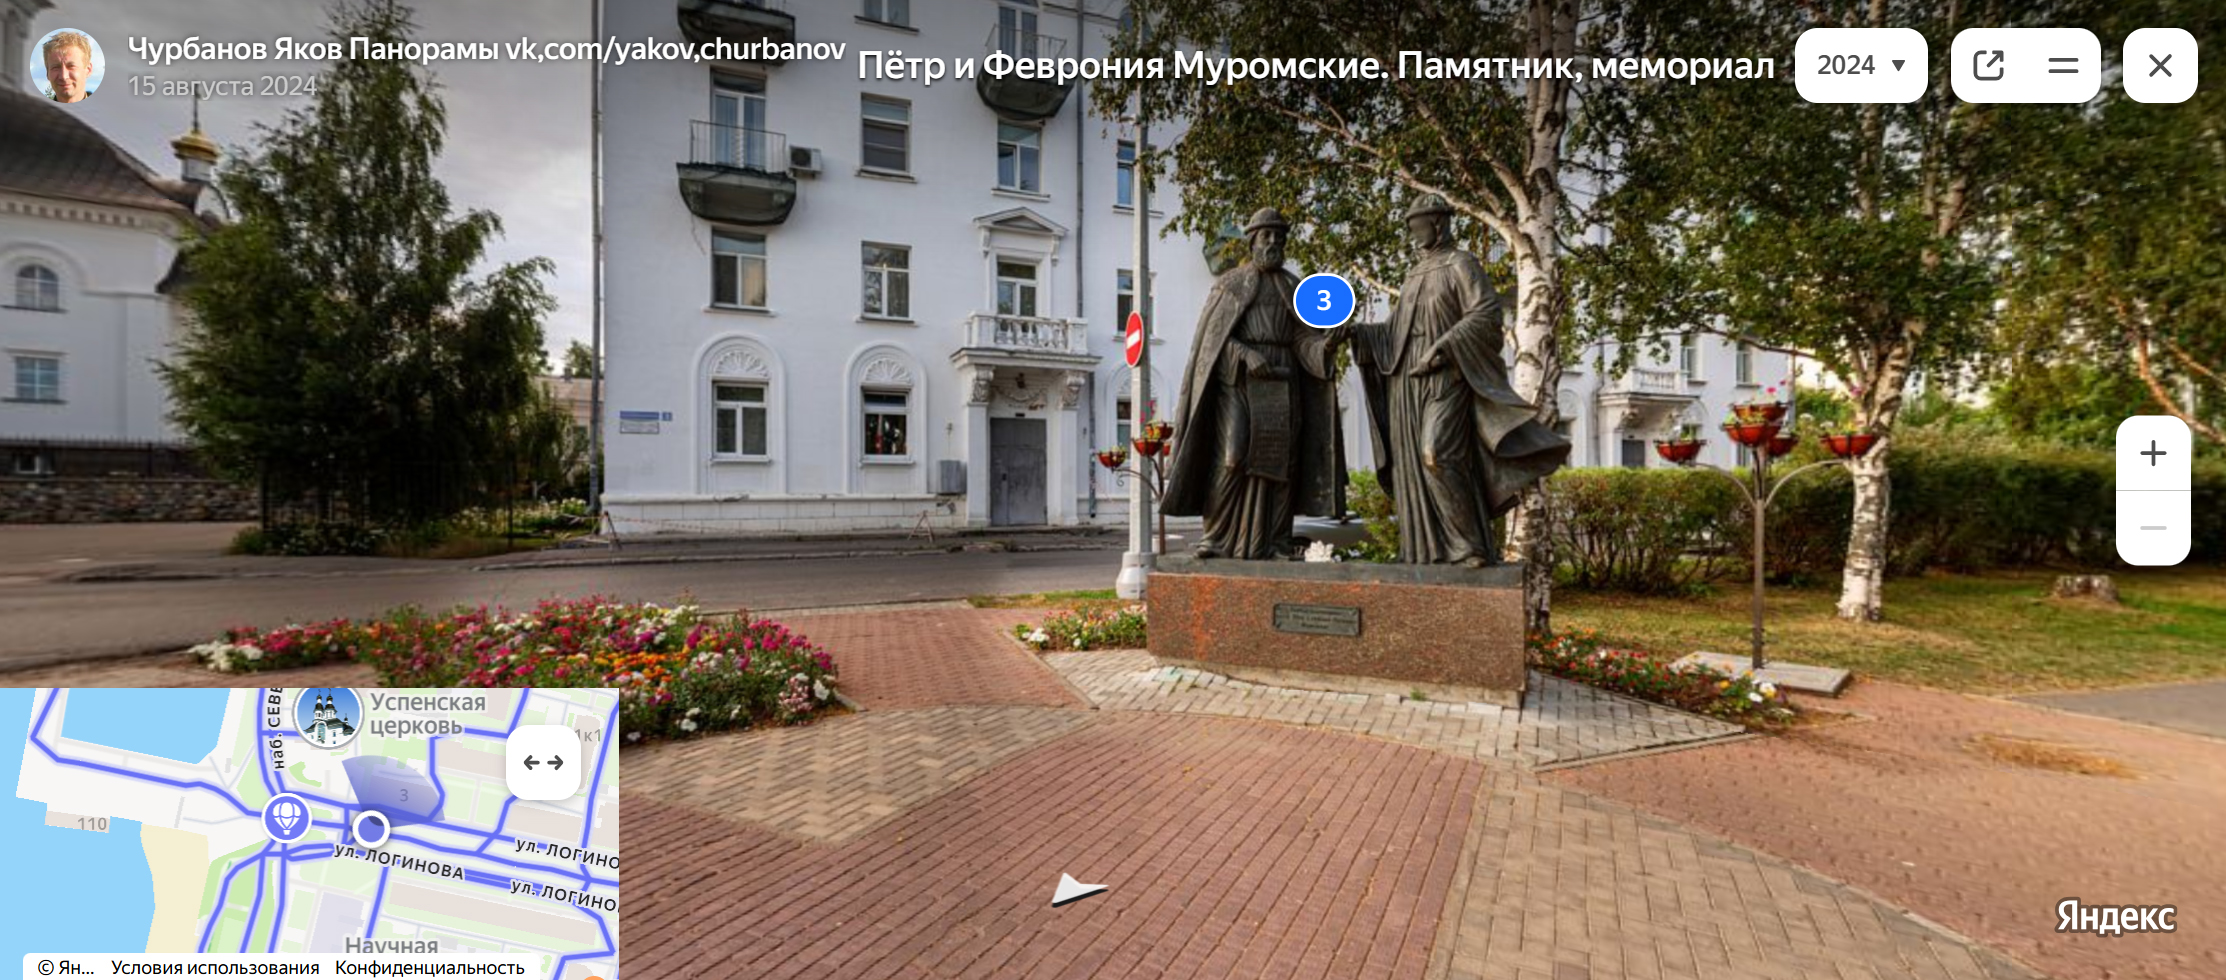
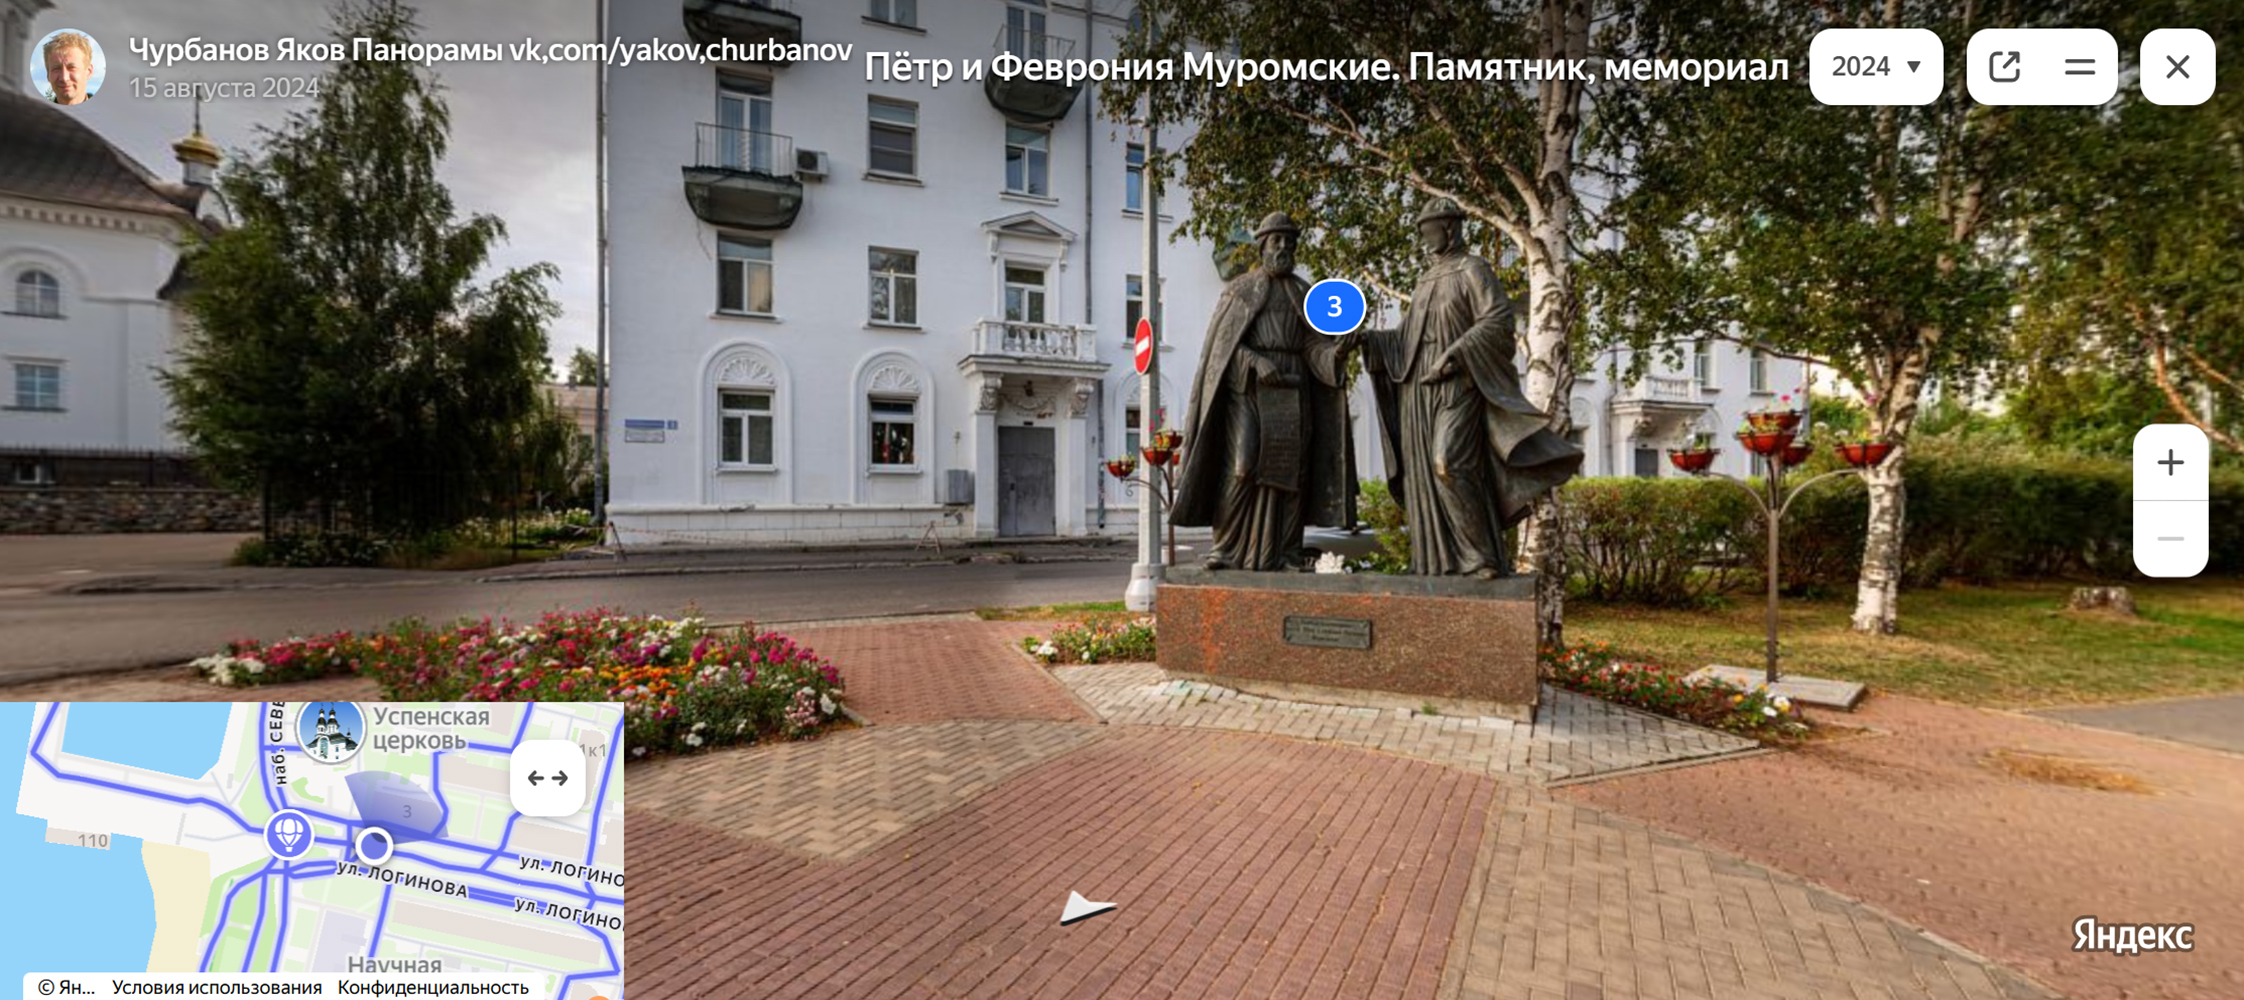
петр акватория

diff --git a/47613-1.html b/47613-1.html
@@ -1,0 +1,325 @@
+
+<html xmlns="http://www.w3.org/1999/xhtml"  lang="ru">
+<head>
+ 
+ 
+<meta charset="UTF-8">     
+<meta name="viewport" content="width=device-width, initial-scale=1, maximum-scale=1" >
+<meta name="keywords" content="виртуальное путешествие, виртуальный тур, архангельск,вокруг марш, архангельская, область, панорама, фото, 360 панорамы,3d-панорама, сферические панорама,  заказать, пейзажный, интерьерный, музейный, фотограф, Чурбанов Яков"> 
+<meta property="og:locale" content="ru_RU" >
+<meta property="og:site_name" content="Сайт Якова Чурбанова «В Архангельск(уЮ) вокруг марш!». Виртуальное путешествие в Архангельск и Архангельскую область. Панорамы Памятников, Музеев, Событий и просто Красивых мест" >
+<meta property="og:type" content="site" >
+
+
+<meta property="og:url" content="https://yakov72.github.io/pano" >
+<meta property="og:image" content="https://yakov72.github.io/47613-1.jpg" >
+<!-- 	 	/*<meta property="og:image:width" content="512" >
+		<meta property="og:image:height" content="512" />*/ -->
+<meta property="og:image:type" content = "image/jpg" >
+<!-- 		<meta property = "og:video" content = "https://www.mywebsite.com/video.avi" >-->
+<meta property="og:title"       content="+360° Панорама. 2015-09-16 Музей-макет «Петровская Акватория» - исторический макет Петербурга 18 века">
+<meta property="og:description" content="+360° Панорама. 2015-09-16 Музей-макет «Петровская Акватория» - исторический макет Петербурга 18 века">
+
+<!--     место для CSS -->
+
+<link rel="stylesheet" type="text/css" href="./css/mypano.css" >
+<link rel="stylesheet" type="text/css" href="./css/my_rukopis_font.css" >
+<link rel="icon"  href="./favicon.png" >
+<!-- <title>Панорамы Якова Чурбанова. Виртуальное путешествие в Архангельск и Архангельскую область. «В Архангельск(уЮ) вокруг марш!». </title>-->
+<title>Панорамы Якова Чурбанова. Виртуальное путешествие в Архангельск и Архангельскую область. «В Архангельск(уЮ) вокруг марш!». </title>
+    <style>
+        html, body {
+            height: 100%;
+            min-height: 100%;
+            margin: 0;
+            padding: 0;
+            font-family: verdana, arial, sans-serif;
+            font-size: 12px;
+            color: #333;
+              overflow: hidden;
+        }
+        a {
+            color: #1e5da0;
+        }
+        a:hover {
+            color: #00366d;
+        }
+        </style>
+        
+       
+
+ 
+  <script type="text/javascript">         
+ document.addEventListener("DOMContentLoaded", (event) => {
+//"DOM fully loaded and parsed");
+let params = new URLSearchParams(document.location.search);
+let value = params.get('key'); // 'key' – это имя целевого параметра
+if (value !== null){    
+ document.getElementById("pano1_templ").src = value;}
+ //"https://1panorama.ru/world/russia-1/arxangelskaya-oblast-173/arxangelsk-646/arxangelsk-severnyj-morskoj-muzej-paratov-panorama20192";
+else {
+    value="https://1panorama.ru/world/russia-1/leningradskaya-oblast-95/sankt-peterburg-2500/2015-09-16-muzej-maket-petrovskaya-akvatoriya-istoricheskij-maket-peterburga-18-veka-panorama47613";
+	
+ document.getElementById("pano1_templ").src = value;} 
+});
+ </script>
+
+
+</head>
+
+<body>
+
+<!-- <div style="position: absolute; left: 0px; top: 0px; width: 100%; height: 100%; opacity: 0.5;
+     overflow: hidden; user-select: none; transform-style: preserve-3d;z-index: 3017; color : green;">
+    -->
+    
+    
+<canvas style=" 
+  background: linear-gradient(to bottom, #ffffff, #ADD8E6);
+   position: fixed; top: 0px; left: 0px; background-color: #edf3ff; 
+   z-index: 2201;   "  id="tutorial1" width="1920" height="60"    
+   title="Кликните по ссылке, вернуться в начало главной страницы  виртуального тура 
+Подробнее вы можете почитать на сайте в разделе `ПОМОЩЬ!!!!!!!!!!!` "  >
+</canvas>
+<canvas style=" 
+  background: linear-gradient(to bottom, #FFFFFF, #ADD8E6);
+   position: fixed; top: 0px; left: 1921px; background-color: #edf3ff;  
+   z-index: 2201;"  id="tutorial2" width="1920" height="60" 
+   title="Кликните по ссылке, вернуться в начало главной страницы  виртуального тура 
+Подробнее вы можете почитать на сайте в разделе `ПОМОЩЬ!!!!!!!!!!!` "  >
+</canvas>
+
+  
+ <pre style=" 
+      font-size: 105%; 
+      font-weight: bold;  
+      line-height: 22px; 
+      color : red;
+      text-align: right;
+     
+      z-index: 2276;
+      opacity: 0.9;
+   border-bottom-color: rgb(255, 255, 255);
+   border-bottom-left-radius: 10px;
+   border-bottom-right-radius: 0px;
+   border-bottom-style: solid;
+   border-bottom-width: 3px;
+       border-bottom-left-radius: 50px;
+   position: fixed; top: 2px; right : 2px; 
+   background-color: #f4f4f4; ">&nbsp;&nbsp;&nbsp;&nbsp;&nbsp;&nbsp;&nbsp;&nbsp;&nbsp;<a href="index.html#yandexmap2">Спутник</a><a href="index.html#yandexmap1">Схема</a></pre> 
+       <!---- &nbsp;Яндекс-Карты&nbsp;<a href="#yandexmap2">Спутник</a>,<a href="#yandexmap1">Схема</a></pre> --->
+   
+  <span  style="   position: fixed; 
+         top: 7px; 
+         right : 130px;   
+         
+         z-index: 2277; 
+      font-size: 105%; 
+      font-weight: bold;  
+      font-size: 10px;
+      line-height: 12px; 
+     font-style: normal;
+      color : red;"         title="Яндекс<br>Карты
+ПЯндекс<br>КартытуреПом ощь,о Яндекс<br>КартыщьЯндекс<br>Яндекс<br>Картыр еПом ощь,о туре">
+      Яндекс<br>Карты</span>
+ 
+
+<form id="head_search" 
+style="position: fixed;
+    top: 7px;    left: 4px;
+    height: 19px;
+    vertical-align: middle;
+    z-index: 3001;      
+    border: 2px;  
+    border-color: #00366d;
+    background-color: #44f4f4; 
+         border-color: rgb(64, 64, 64);
+             margin-bottom: 0px;"
+
+    action="https://1panorama.ru/search/index"
+    
+        title="Введите название места или достопримечательности , что бы найти панораму"
+    >
+<input 
+style="
+width: 155px;
+height: 19px;
+border: 1px ;    
+margin: 0px 0 0 0;"
+type="search" placeholder="Поиск,напр. КОРЕЛЫ" name="q" value="">
+    <input type="submit" value="">
+</form>
+  
+<a style="position: fixed;
+    top:7px;    
+    left: 172px;
+   opacity: 0.9;
+   z-index: 2277; 
+       scale: 90% 90%;  "
+    href="index.html#instr" 
+    target="_blank"
+    title="
+Помощь.Про тур. Про автора.   "
+    >О туре</a>
+ 
+ 
+ <img src="info-q.png"   alt="карта" 
+    style=" 
+    width: 23px;
+    height: 20px;
+    position: fixed;
+ 
+    padding-top: 2px;
+    /* margin-left: -20px; */
+    border: none;
+    top:2px;    
+    left: 232px;
+       opacity: 1.0;
+       background-color: #cccccc; 
+         border-radius: 4px;
+   z-index: 2276; "
+    >
+   
+ 
+ 
+ <a style="position: fixed;
+    top:30px;    
+    left: -15px;
+   opacity: 0.9;
+   z-index: 2277; 
+       scale: 90% 90%;  "
+    href="index.html" 
+    target="_blank"
+    title="
+«В Архангельск(уЮ) вокруг марш!». Панорамы Якова Чурбанова. Виртуальное путешествие в Архангельск и Архангельскую область."
+
+    > 360° панорамы на туристической карте Архангельска и области.
+ </a>
+  
+ 
+<!------     visibility: hidden;
+      top:70px;    
+    left: 100px;
+            width: 500px;
+height: auto; --->
+ <img src="gotoarh.jpg"   alt="карта"  align="middle" id="gotoarh"
+ onmouseout="this.style.visibility='hidden'";
+      style="position: fixed; 
+      top:70px;    
+      left: 100px;
+      visibility: hidden;
+      display: block;
+      margin-left: auto;
+    margin-right: auto;
+    width: 50%;
+      margin: 4px; z-index: 2286;
+      
+      
+      overflow: visible; 
+      
+      "
+      title="&nbsp;&nbsp;&nbsp;Перейти на Официальный туристический сайт Администрации г. Архангельска  
+    ->  Сайт www.gotoarkhangelsk.ru 
+    Администрация ГО «Город Архангельск» © 2025. Р.Ф.,Архангельская обл., г. Архангельск.
+    ->  Сайт www.arhcity.ru - Официальный информационный интернет-портал г. Архангельска">
+     
+ <img src="gotoarh-dost.jpg"   alt="карта"  align="middle" id="gotoarh_dost"
+ onmouseout="this.style.visibility='hidden'";
+ 
+      style="position: fixed; 
+      top:70px;    
+      left: 100px;
+      visibility: hidden;
+      display: block;
+      margin-left: auto;
+    margin-right: auto;
+    width: 50%;
+      margin: 4px; z-index: 2286;
+      
+      overflow: visible; 
+      
+      
+      "
+      title="&nbsp;&nbsp;&nbsp;Перейти на Официальный туристический сайт Администрации г. Архангельска  
+    ->  Сайт www.gotoarkhangelsk.ru 
+    Администрация ГО «Город Архангельск» © 2025. Р.Ф.,Архангельская обл., г. Архангельск.
+    ->  Сайт www.arhcity.ru - Официальный информационный интернет-портал г. Архангельска">
+ 
+ <!-------           ======================   --->
+ <div>
+<iframe id="pano1_templ" width="100%" allow="fullscreen"  height="100%" 
+   style="position: fixed; top: 0px; left: 0px;  z-index: 2000; 
+    border-left-width: 0px;
+    border-top-width: 0px;
+    border-right-width: 0px;
+    bottom: 0px;
+    border-bottom-width: 0px;"
+  src=null    title="текст444" alt="текст444"  >
+</iframe>	
+ <a id="Main1pano"  target="_blank" 
+     title="&nbsp;&nbsp;&nbsp;Перейти на  сайт проекта !1panorama" 
+	 	 onclick=  "Main1pano()"
+style=" 
+         position: fixed;
+	  
+      left: -3px; bottom:46px; 
+
+      height: 22px;
+      width: 120px;
+      z-index: 3001;
+      overflow: visible;
+      opacity:0.8;
+      cursor: pointer;
+      pointer-events: auto; 
+      margin: 2px; 
+      background: none;
+          background-color: #333333; 
+            border :none; 
+				padding-bottom: 4px;
+            ">
+       <img src="nlogo-a100.png"   alt="карта" ></a>
+   
+   <a id="AboutMy1pano" href="https://1panorama.ru/user/profile/index/id/2379" target="_blank" 
+     title="
+     &nbsp;&nbsp;&nbsp;Об авторе идеи большинства наземных панорам Архангельска и области
+     вы можете посмотреть на станице сайт проекта 1panorama.ru
+     &nbsp;Там же вы можете посмотреть мои интересные панорамы, начиная с 2010 года 
+     по городу, музеям, событиям. И просто красивые панорамы нашего Архангельского 
+     края и разных прочих мест России и мира." 
+style=" 
+      position: fixed;
+      left: 126px; 
+	  bottom:46px; 
+
+      height: 22px;
+      width: 120px;
+	  
+      z-index: 3001;
+      overflow: visible;
+      opacity:0.9;
+      cursor: pointer;
+      pointer-events: auto; 
+      margin: 2px; 
+      padding-left: 15px;
+      padding-right: 10px;
+      background: none;
+      background-color: #333333; 
+	padding-bottom: 4px;
+      border :none; 
+            ">
+       <img src="nlogo-a125+my.png"   alt="об авторе тура" ></a>
+</div>   
+ <!-------       конец второй     ====="Main1pano()"=================   --->
+
+
+   
+ 
+ 
+
+</body>
+
+
+</script> 
+</html>
+
+<!-------           tyle="margin-top: -60px; z-index: 10;    " --->
